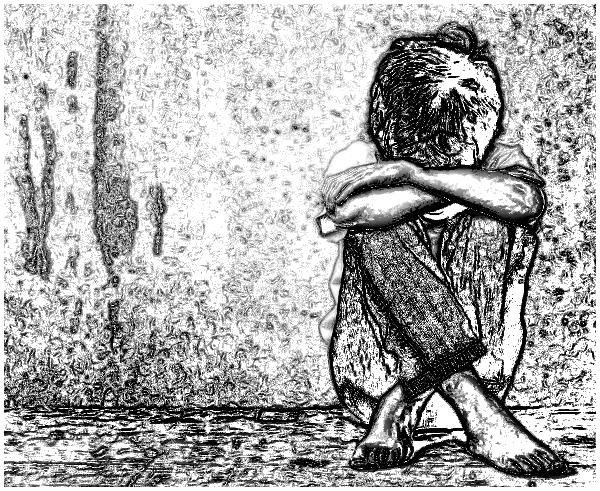
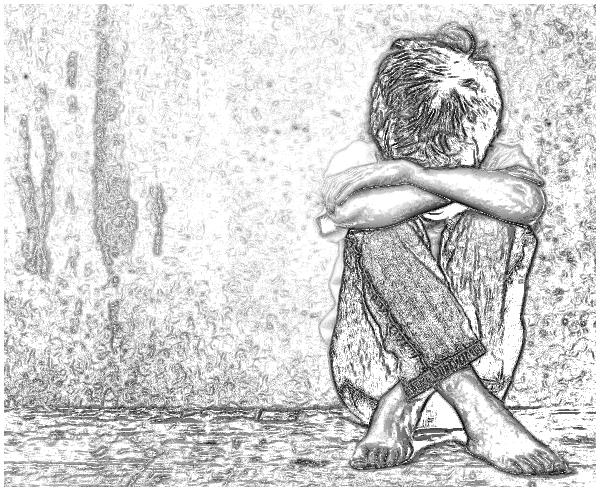
Add files via upload

diff --git a/图像处理 灰度化/Module.py b/图像处理 灰度化/Module.py
@@ -4,6 +4,7 @@ import os
 图像的基本单位：像素
 一个小方块 需要3个像素表示RGB   0-255
 灰度化公式：
+    L
     0.299*R + 0.587*G + 0.114*B =
 
 所有的数字图像其本质都是一个多维矩阵
@@ -15,7 +16,7 @@ import os
     如何取值   0-255      值越大  越接近透明色；值越小   颜色越深
 
 """
-image = '1.jpg'
+image = '3.jpg'
 image_all = "绘画素描"+image
 img = Image.open(image)
 # ~ # 获取图像的模式
@@ -45,25 +46,25 @@ for i in range(Pen_size + 1, width-Pen_size - 1):
         lcolor = sum([img.getpixel((i-r,j))for r in range(Pen_size)])//Pen_size
         rcolor = sum([img.getpixel((i+r,j))for r in range(Pen_size)])//Pen_size
         if abs(lcolor - rcolor) > Color_Diff:
-            originalcolor -= (255 - img.getpixel((i,j))) // 2
+            originalcolor -= (255 - img.getpixel((i,j))) // 4
             # 将计算的值 赋值给新的图像
             new.putpixel((i,j),originalcolor)
         qcolor = sum([img.getpixel((i,j-r))for r in range(Pen_size)])//Pen_size
         wcolor = sum([img.getpixel((i,j+r))for r in range(Pen_size)])//Pen_size
         if abs(qcolor - wcolor) > Color_Diff:
-            originalcolor -= (255 - img.getpixel((i,j))) // 2
+            originalcolor -= (255 - img.getpixel((i,j))) // 4
             # 将计算的值 赋值给新的图像
             new.putpixel((i,j),originalcolor)
         zcolor = sum([img.getpixel((i-r,j-r))for r in range(Pen_size)])//Pen_size
         xcolor = sum([img.getpixel((i+r,j+r))for r in range(Pen_size)])//Pen_size
         if abs(zcolor - xcolor) > Color_Diff:
-            originalcolor -= (255 - img.getpixel((i,j))) // 2
+            originalcolor -= (255 - img.getpixel((i,j))) // 4
             # 将计算的值 赋值给新的图像
             new.putpixel((i,j),originalcolor)
         acolor = sum([img.getpixel((i+r,j-r))for r in range(Pen_size)])//Pen_size
         scolor = sum([img.getpixel((i-r,j+r))for r in range(Pen_size)])//Pen_size
         if abs(acolor - scolor) > Color_Diff:
-            originalcolor -= (255 - img.getpixel((i,j))) // 2
+            originalcolor -= (255 - img.getpixel((i,j))) // 4
             # 将计算的值 赋值给新的图像
             new.putpixel((i,j),originalcolor)
 #保存图像
